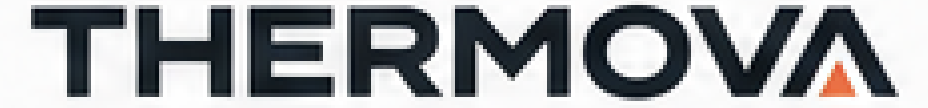
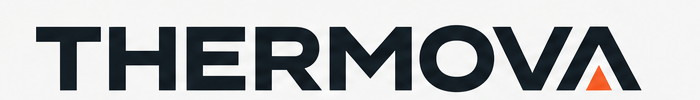
Add files via upload

diff --git a/src/brand.css b/src/brand.css
@@ -2144,3 +2144,197 @@ button:hover > .ui-arrow {
     font-size: 12px;
   }
 }
+
+/* Visual revision based on the production screenshots. */
+:root {
+  --page-surface: #efeee9;
+  --content-surface: #f7f6f2;
+}
+body {
+  background: var(--page-surface);
+}
+main {
+  background: var(--content-surface);
+}
+main:focus,
+main:focus-visible {
+  outline: none;
+}
+.header {
+  background: rgba(255, 255, 255, 0.98);
+}
+.original-wordmark {
+  aspect-ratio: 7;
+  overflow: hidden;
+  background: #fff;
+}
+.original-wordmark img {
+  width: 100%;
+  height: 100%;
+  object-fit: contain;
+  filter: none;
+}
+.tagline {
+  margin-top: 7px;
+  color: #26323e;
+}
+.hero-image {
+  border-radius: 0;
+  clip-path: polygon(0 0, 100% 0, 100% calc(100% - 46px), calc(100% - 46px) 100%, 0 100%);
+  box-shadow: 0 30px 75px rgba(31, 41, 55, 0.14);
+}
+.hero-image:after {
+  top: auto;
+  right: 0;
+  bottom: 0;
+  width: 48px;
+  height: 48px;
+  border: 0;
+  background: linear-gradient(135deg, transparent 48%, var(--orange) 49%);
+}
+.category-path,
+.product-visual,
+.detail-visual,
+.catalogue-intro-media {
+  clip-path: polygon(0 0, 100% 0, 100% calc(100% - 22px), calc(100% - 22px) 100%, 0 100%);
+}
+.product-visual:after,
+.category-path:after {
+  content: "";
+  position: absolute;
+  right: 0;
+  bottom: 0;
+  width: 23px;
+  height: 23px;
+  background: linear-gradient(135deg, transparent 47%, rgba(240, 90, 40, 0.78) 49%);
+  pointer-events: none;
+}
+.catalogue-intro {
+  display: grid;
+  grid-template-columns: minmax(0, 0.86fr) minmax(420px, 1.14fr);
+  gap: clamp(48px, 7vw, 110px);
+  align-items: stretch;
+  padding-block: 52px 72px;
+  min-height: 560px;
+}
+.catalogue-intro > div {
+  align-self: center;
+  padding-block: 30px;
+}
+.catalogue-intro h1 {
+  max-width: 720px;
+}
+.catalogue-intro > div > p:not(.eyebrow) {
+  max-width: 570px;
+}
+.catalogue-intro .text-link {
+  margin-top: 10px;
+}
+.catalogue-intro-media {
+  margin: 0;
+  min-height: 470px;
+  position: relative;
+  overflow: hidden;
+  background: #c5c7c5;
+  box-shadow: 0 26px 65px rgba(31, 41, 55, 0.12);
+}
+.catalogue-intro-media img {
+  width: 100%;
+  height: 100%;
+  position: absolute;
+  object-fit: cover;
+  object-position: 55% center;
+  animation: media-entrance 720ms cubic-bezier(0.22, 1, 0.36, 1) both;
+  transition: transform 700ms cubic-bezier(0.22, 1, 0.36, 1), filter 400ms ease;
+}
+.catalogue-intro-media:after {
+  content: "";
+  position: absolute;
+  inset: 45% 0 0;
+  background: linear-gradient(transparent, rgba(13, 22, 30, 0.76));
+  pointer-events: none;
+}
+.catalogue-intro-media:before {
+  content: "";
+  position: absolute;
+  top: 20px;
+  right: 20px;
+  width: 42px;
+  height: 42px;
+  border-top: 2px solid var(--orange);
+  border-right: 2px solid var(--orange);
+  z-index: 2;
+}
+.catalogue-intro-media:hover img {
+  transform: scale(1.03);
+  filter: saturate(1.05) contrast(1.02);
+}
+.catalogue-intro-media figcaption {
+  position: absolute;
+  left: 28px;
+  right: 28px;
+  bottom: 28px;
+  z-index: 3;
+  color: #fff;
+  border-top: 1px solid rgba(255, 255, 255, 0.5);
+  padding-top: 16px;
+}
+.catalogue-intro-media figcaption span {
+  display: block;
+  margin-bottom: 7px;
+  font-size: 8px;
+  font-weight: 700;
+  letter-spacing: 0.18em;
+}
+.catalogue-intro-media figcaption strong {
+  font-size: 15px;
+  font-weight: 500;
+}
+.catalogue-intro + .sample-note {
+  margin-top: 0;
+}
+@media (max-width: 900px) {
+  .catalogue-intro {
+    grid-template-columns: 1fr;
+    gap: 30px;
+    min-height: 0;
+    padding-block: 34px 52px;
+  }
+  .catalogue-intro-media {
+    min-height: 440px;
+  }
+}
+@media (max-width: 640px) {
+  :root {
+    --page-surface: #ecebe5;
+    --content-surface: #f7f6f2;
+  }
+  .original-wordmark {
+    aspect-ratio: 7;
+  }
+  .tagline {
+    margin-top: 4px;
+  }
+  .hero-image {
+    clip-path: polygon(0 0, 100% 0, 100% calc(100% - 28px), calc(100% - 28px) 100%, 0 100%);
+  }
+  .hero-image:after {
+    width: 30px;
+    height: 30px;
+  }
+  .catalogue-intro {
+    padding-top: 20px;
+    gap: 24px;
+  }
+  .catalogue-intro > div {
+    padding-block: 20px 0;
+  }
+  .catalogue-intro-media {
+    min-height: 360px;
+  }
+  .catalogue-intro-media figcaption {
+    left: 20px;
+    right: 20px;
+    bottom: 21px;
+  }
+}

diff --git a/src/pages/shop.js b/src/pages/shop.js
@@ -65,7 +65,7 @@ export function results(c, f = {}) {
     )}</select></label></div>${list.length ? `<div class="product-grid catalogue-grid">${list.map((p) => productCard(c, p)).join("")}</div>` : `<div class="empty-state"><h2>${c.t("Most nincs pontos találat.", "No exact matches this time.")}</h2><p>${c.t("Módosíts egy szűrőt, vagy kérj segítséget az egyedi igényedhez.", "Change a filter, or ask for help with your requirements.")}</p><button class="button button-outline" data-action="clear-filters">${c.t("Szűrők törlése", "Clear filters")}</button></div>`}`;
 }
 export function catalogue(c, f = {}) {
-  return `<div class="container">${breadcrumb(c, [[c.t("Klímák", "Air conditioners")]])}<section class="page-intro"><p class="eyebrow">${c.t("KÉSZÜLÉKEK ÉS ÁRAK", "UNITS AND PRICES")}</p><h1>${c.t("Klímák otthonra<br>és munkahelyre.", "Air conditioning<br>for home and work.")}</h1><p>${c.t("Találd meg a hozzád illő klímát. A készülék és a standard telepítés árát is azonnal látod.", "Find the right air conditioner. See both the unit and standard installation price at a glance.")}</p></section>${sampleNotice(c)}<div class="catalogue-layout">${filtersForm(c, f)}<section id="results" aria-label="${c.t("Termékek", "Products")}">${results(c, f)}</section></div>${helpBanner(c)}</div>`;
+  return `<div class="container">${breadcrumb(c, [[c.t("Klímák", "Air conditioners")]])}<section class="page-intro catalogue-intro"><div><p class="eyebrow">${c.t("KÉSZÜLÉKEK ÉS ÁRAK", "UNITS AND PRICES")}</p><h1>${c.t("Klímák otthonra<br>és munkahelyre.", "Air conditioning<br>for home and work.")}</h1><p>${c.t("Találd meg a hozzád illő klímát. A készülék és a standard telepítés árát is azonnal látod.", "Find the right air conditioner. See both the unit and standard installation price at a glance.")}</p><a class="text-link" href="${c.url("valaszto")}">${c.t("Segítség a választáshoz", "Help me choose")} ${arrow}</a></div><figure class="catalogue-intro-media">${image("interior", c.t("Világos nappali THERMOVA klímával – enteriőr-látványkép", "Bright interior with THERMOVA air conditioning — concept image"), { hero: true })}<figcaption><span>THERMOVA / CLIMATE</span><strong>${c.t("Hűtés és fűtés, a helyiséghez választva.", "Cooling and heating selected for the room.")}</strong></figcaption></figure></section>${sampleNotice(c)}<div class="catalogue-layout">${filtersForm(c, f)}<section id="results" aria-label="${c.t("Termékek", "Products")}">${results(c, f)}</section></div>${helpBanner(c)}</div>`;
 }
 export function productPage(c, id, withInstallation = true) {
   const p = product(id);

diff --git a/src/components.js b/src/components.js
@@ -5,7 +5,7 @@ export const arrow =
 export const icon = (type) =>
   `<svg width="21" height="21" viewBox="0 0 24 24" fill="none" stroke="currentColor" stroke-width="1.5" stroke-linecap="round" stroke-linejoin="round" aria-hidden="true">${{ bag: '<path d="M5 7h14l1 14H4L5 7Z"/><path d="M8 8V6a4 4 0 0 1 8 0v2"/>', search: '<circle cx="10.5" cy="10.5" r="6.5"/><path d="m16 16 5 5"/>', menu: '<path d="M5 7h14M5 12h14M5 17h14"/>', check: '<path d="m5 12 4 4L19 6"/>', close: '<path d="m7 7 10 10M17 7 7 17"/>', back: '<path d="m14.5 5-7 7 7 7"/>', forward: '<path d="m9.5 5 7 7-7 7"/>', download: '<path d="M12 3v12m0 0 5-5m-5 5-5-5M5 21h14"/>', sun: '<circle cx="12" cy="12" r="4"/><path d="M12 2v2m0 16v2M2 12h2m16 0h2M5 5l1 1m12 12 1 1M5 19l1-1M18 6l1-1"/>' }[type] || ""}</svg>`;
 export function logo(c) {
-  return `<a class="logo" href="${c.url()}" aria-label="THERMOVA ${c.t("főoldal", "home")}"><span class="original-wordmark"><img src="/assets/thermova-wordmark.png" width="928" height="108" alt="THERMOVA" decoding="async"></span><span class="tagline">${c.t("ÉPÜLETENERGETIKAI MEGOLDÁSOK", "BUILDING ENERGY SOLUTIONS")}</span></a>`;
+  return `<a class="logo" href="${c.url()}" aria-label="THERMOVA ${c.t("főoldal", "home")}"><span class="original-wordmark"><img src="/assets/thermova-wordmark.png" width="700" height="100" alt="THERMOVA" decoding="async"></span><span class="tagline">${c.t("ÉPÜLETENERGETIKAI MEGOLDÁSOK", "BUILDING ENERGY SOLUTIONS")}</span></a>`;
 }
 export const productAsset = (p) =>
   p?.tier === "premium" ? "climate-graphite" : "climate";

diff --git a/QA.md b/QA.md
@@ -35,6 +35,8 @@ Codex böngésző, külön localhost tesztpéldányon, kizárólag tesztadatokka
 - Asztali és 390 px mobil képi ellenőrzés: eredeti logó, hero, termék- és vásárlási felület; arculati fotók betöltése és képkivágása.
 - 390 px mobilmenü: panelanimáció, sorszámozott navigáció, stabil kör alakú bezárógomb és fókusz-visszaadás.
 - A karakteres CTA-nyilak és pipák helyett egységes SVG/CSS jelek jelennek meg.
+- A produkciós képernyőképek alapján javítva: megszűnt a fő tartalom kék fókuszkerete, a logó tiszta arculati-board kivágást használ, a klímakategória nyitóblokkja képes szerkesztői elrendezést kapott.
+- A fő és kategória hero-képek aszimmetrikus építészeti vágást, látható narancs sarokrészletet és visszafogott képátmenetet használnak.
 - A vizsgált folyamatokban nem keletkezett JavaScript konzolhiba.
 
 A teszt nem minősül teljes WCAG-auditnak. Fizetés, szerveroldali fájlfeltöltés és valós ajánlatküldés nincs bekötve, ezért ilyen folyamat sikerességét nem állítjuk.

diff --git a/ASSETS.md b/ASSETS.md
@@ -1,6 +1,6 @@
 # Képi anyag és márkaazonosság
 
-A fő logó a felhasználó által feltöltött `Képernyőfotó 2026-09-18 - 21.07.48.png` változatlan másolata: `public/assets/thermova-original-logo.png`. A felület CSS-sel rejti el az eredeti kép külső üres margóját. Nem helyettesítettük betűtípussal. A logó minőségének felső határa az átadott raszteres forrás; később ugyanide illeszthető az eredeti vektoros logó.
+A korábbi képernyőfotó-alapú logó archivált forrásként megmaradt `public/assets/thermova-original-logo.png` néven. A felületen használt, tisztább `public/assets/thermova-wordmark.png` közvetlenül a felhasználó által átadott arculati board nagy logójából készült pontos kivágással, további átrajzolás nélkül. A végleges vektoros SVG/PDF logó később ugyanide illeszthető.
 
 Az arculati board változatlan referencia: `public/assets/thermova-brand-board.png`.
 
